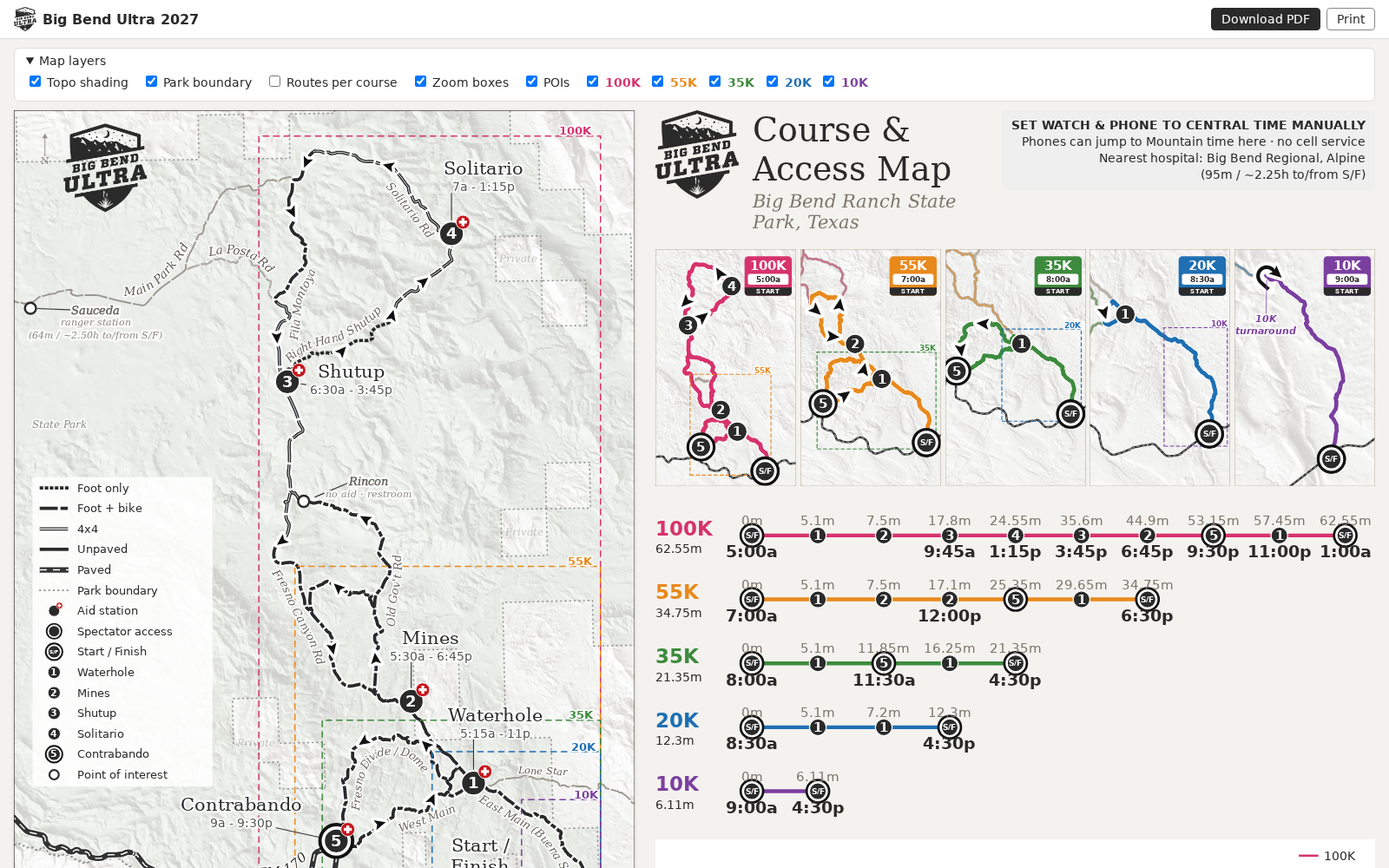
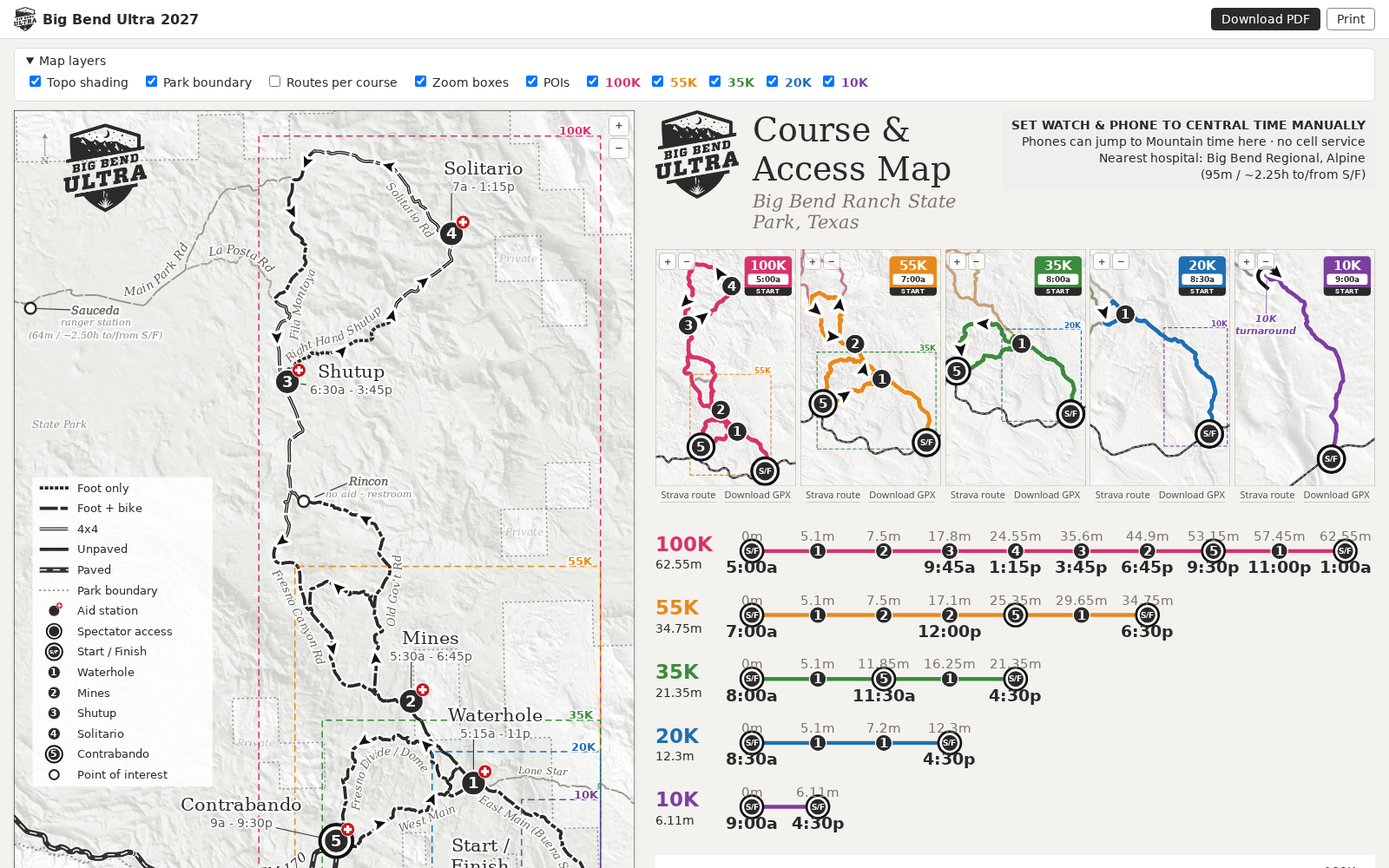
Readout gain + minor ticks; bib band bottom; print: section pages, equal 0.4in margins; web zoom/pan; Strava + GPX links

diff --git a/site/zoom.ts b/site/zoom.ts
@@ -1,0 +1,82 @@
+// Web-only zoom & pan for the main map and the mini maps.
+// The map content sits in <g class="zv">; legend, logo, bib and frame stay outside and never move.
+// Markers, arrows and labels are counter-scaled about their anchor so they keep a constant on-screen size.
+const MAX = 8, MIN = 1;
+type Z = { svg: SVGSVGElement; g: SVGGElement; W: number; H: number; k: number; tx: number; ty: number; items: { el: SVGGraphicsElement; base: string; cx: number; cy: number }[]; texts: { el: SVGTextElement; fs: number; sw: number }[] };
+const Zs = new Map<SVGSVGElement, Z>();
+/** current zoom factor of an svg (1 when not zoomable) */
+export const zoomOf = (svg: Element | null) => (svg && Zs.get(svg as SVGSVGElement)?.k) || 1;
+
+const COUNTER = 'g.marker, use.marker, path.arrow, g.stlabel, g.poilabel, g.turn, g.zoombox text, text';
+function collect(z: Z) {
+  const seen = new Set<Element>();
+  z.g.querySelectorAll<SVGGraphicsElement>(COUNTER).forEach((el) => {
+    // skip anything already inside a counter-scaled group
+    for (let p: Element | null = el.parentElement; p && p !== z.g; p = p.parentElement) if (seen.has(p)) return;
+    if (el.closest('g.layer[data-layer="topo"]')) return;
+    seen.add(el);
+    if (el.tagName === 'text' && el.querySelector('textPath')) { const t = el as SVGTextElement; z.texts.push({ el: t, fs: parseFloat(t.getAttribute('font-size') || '16'), sw: parseFloat(t.getAttribute('stroke-width') || '0') }); return; }
+    let cx: number, cy: number;
+    if (el.dataset.ax) { cx = +el.dataset.ax; cy = +(el.dataset.ay || 0); }
+    else if (el.tagName === 'text' && el.hasAttribute('x')) { cx = parseFloat(el.getAttribute('x')!); cy = parseFloat(el.getAttribute('y')!); }
+    else { try { const b = el.getBBox(); cx = b.x + b.width / 2; cy = b.y + b.height / 2; } catch { return; } }
+    z.items.push({ el, base: el.getAttribute('transform') || '', cx, cy });
+  });
+}
+function apply(z: Z) {
+  const { k } = z;
+  z.tx = Math.min(0, Math.max(z.W - k * z.W, z.tx)); z.ty = Math.min(0, Math.max(z.H - k * z.H, z.ty));
+  if (k === 1) z.g.removeAttribute('transform'); else z.g.setAttribute('transform', `translate(${z.tx} ${z.ty}) scale(${k})`);
+  for (const it of z.items) {
+    if (k === 1) { if (it.base) it.el.setAttribute('transform', it.base); else it.el.removeAttribute('transform'); continue; }
+    it.el.setAttribute('transform', `${it.base} translate(${it.cx} ${it.cy}) scale(${1 / k}) translate(${-it.cx} ${-it.cy})`);
+  }
+  for (const t of z.texts) { t.el.setAttribute('font-size', String(t.fs / k)); if (t.sw) t.el.setAttribute('stroke-width', String(t.sw / k)); }
+  z.svg.dispatchEvent(new CustomEvent('zoomchange'));
+  const ctl = z.svg.parentElement?.querySelector('.zctl'); ctl?.classList.toggle('zoomed', k > 1);
+}
+function toSvg(z: Z, cx: number, cy: number) { const m = z.svg.getScreenCTM()!; const p = new DOMPoint(cx, cy).matrixTransform(m.inverse()); return [p.x, p.y]; }
+function zoomAt(z: Z, f: number, px: number, py: number) {
+  const k = Math.min(MAX, Math.max(MIN, z.k * f)), r = k / z.k;
+  z.tx = px - (px - z.tx) * r; z.ty = py - (py - z.ty) * r; z.k = k; apply(z);
+}
+const reset = (z: Z) => { z.k = 1; z.tx = 0; z.ty = 0; apply(z); };
+export const resetAllZoom = () => Zs.forEach(reset);
+
+function setup(svg: SVGSVGElement) {
+  const g = svg.querySelector<SVGGElement>('g.zv'); if (!g) return;
+  const vb = svg.viewBox.baseVal, z: Z = { svg, g, W: vb.width, H: vb.height, k: 1, tx: 0, ty: 0, items: [], texts: [] };
+  collect(z); Zs.set(svg, z);
+  const host = svg.parentElement!; host.classList.add('zhost');
+  const ctl = document.createElement('div'); ctl.className = 'zctl ui';
+  ctl.innerHTML = '<button type="button" data-z="in" aria-label="Zoom in">+</button><button type="button" data-z="out" aria-label="Zoom out">−</button><button type="button" data-z="reset" aria-label="Reset zoom">⟲</button>';
+  host.appendChild(ctl);
+  ctl.addEventListener('click', (e) => { const b = (e.target as HTMLElement).closest('button'); if (!b) return; const c = [z.W / 2, z.H / 2]; if (b.dataset.z === 'in') zoomAt(z, 1.6, c[0], c[1]); else if (b.dataset.z === 'out') zoomAt(z, 1 / 1.6, c[0], c[1]); else reset(z); });
+  svg.addEventListener('wheel', (e) => { e.preventDefault(); const [x, y] = toSvg(z, e.clientX, e.clientY); zoomAt(z, Math.exp(-e.deltaY * (e.ctrlKey ? 0.01 : 0.0015)), x, y); }, { passive: false });
+  svg.addEventListener('dblclick', (e) => { e.preventDefault(); const [x, y] = toSvg(z, e.clientX, e.clientY); zoomAt(z, e.shiftKey ? 1 / 2 : 2, x, y); });
+  // mouse / pen drag to pan (touch is handled below so one finger still scrolls the page)
+  let drag: { x: number; y: number; tx: number; ty: number } | null = null;
+  svg.addEventListener('pointerdown', (e) => { if (e.pointerType === 'touch' || e.button !== 0 || z.k === 1) return; const [x, y] = toSvg(z, e.clientX, e.clientY); drag = { x, y, tx: z.tx, ty: z.ty }; svg.setPointerCapture(e.pointerId); svg.classList.add('panning'); });
+  svg.addEventListener('pointermove', (e) => { if (!drag) return; const [x, y] = toSvg(z, e.clientX, e.clientY); z.tx = drag.tx + x - drag.x; z.ty = drag.ty + y - drag.y; apply(z); });
+  const end = () => { drag = null; svg.classList.remove('panning'); };
+  svg.addEventListener('pointerup', end); svg.addEventListener('pointercancel', end);
+  // touch: two fingers pinch-zoom and pan; one finger is left to the page
+  let pin: { d: number; mx: number; my: number; k: number; tx: number; ty: number } | null = null;
+  const two = (t: TouchList) => { const a = toSvg(z, t[0].clientX, t[0].clientY), b = toSvg(z, t[1].clientX, t[1].clientY); return { d: Math.hypot(a[0] - b[0], a[1] - b[1]), mx: (a[0] + b[0]) / 2, my: (a[1] + b[1]) / 2 }; };
+  svg.addEventListener('touchstart', (e) => { if (e.touches.length === 2) { e.preventDefault(); const q = two(e.touches); pin = { ...q, k: z.k, tx: z.tx, ty: z.ty }; } }, { passive: false });
+  svg.addEventListener('touchmove', (e) => {
+    if (!pin || e.touches.length !== 2) return; e.preventDefault();
+    const q = two(e.touches);
+    // work in the pinch-start frame: point under the fingers' midpoint stays under it
+    const k = Math.min(MAX, Math.max(MIN, pin.k * (q.d / (pin.d || 1)))), r = k / pin.k;
+    const cx = (pin.mx - pin.tx) / pin.k, cy = (pin.my - pin.ty) / pin.k; // content point at pinch start
+    // q.mx is measured in the current (already transformed) svg viewport coords
+    z.k = k; z.tx = q.mx - cx * k; z.ty = q.my - cy * k; apply(z); void r;
+  }, { passive: false });
+  svg.addEventListener('touchend', (e) => { if (e.touches.length < 2) pin = null; });
+}
+export function initZoom() {
+  if (matchMedia('print').matches) return;
+  document.querySelectorAll<SVGSVGElement>('svg.mainmap, svg.mini').forEach(setup);
+  addEventListener('beforeprint', resetAllZoom);
+}

diff --git a/site/sections/10-map.ts b/site/sections/10-map.ts
@@ -6,27 +6,33 @@ import type { Ctx } from '../lib/types';
 import { hoverData } from '../lib/hover';
 // Print = US Letter portrait, 2 pages: p1 the main map, p2 the side panel (header, mini maps, timelines, profile).
 // Panels keep their 36x24 in design-sheet geometry (inches) and each page is uniformly zoomed to fit the printable area.
-export const LETTER = { w: 8.5, h: 11, margin: 0.25 };
-const PW = LETTER.w - 2 * LETTER.margin, PH = LETTER.h - 2 * LETTER.margin;
+export const LETTER = { w: 8.5, h: 11, margin: 0.4 };
 type Box = [number, number, number, number]; // sheet fractions [x0, y0 (from bottom), w, h]
 const inch = (b: Box) => ({ l: b[0] * 36, t: (1 - b[1] - b[3]) * 24, w: b[2] * 36, h: b[3] * 24 });
-const fit = (w: number, h: number) => Math.min(PW / w, PH / h);
+/** best letter orientation for a w x h in block: largest uniform zoom inside equal 0.4in margins, centred */
+function place(w: number, h: number) {
+  const opt = (pw: number, ph: number, orient: string) => { const W = pw - 2 * LETTER.margin, H = ph - 2 * LETTER.margin, z = Math.min(W / w, H / h); return { z, orient, mx: (W - w * z) / 2, my: (H - h * z) / 2 }; };
+  const a = opt(LETTER.w, LETTER.h, 'portrait'), b = opt(LETTER.h, LETTER.w, 'landscape');
+  return a.z >= b.z ? a : b;
+}
 export function render(c: Ctx) {
   const L = c.layout, hdr = L.header, st = L.strips;
   const toggles = mainLayers.map(([k, lab, on]) => `<label><input type="checkbox" data-layer="${k}"${on ? ' checked' : ''}> ${lab}</label>`).join('')
     + `<span class="sub">${c.courses.order.map(k => `<label class="ck" style="--c:${c.courses.colors[k]}"><input type="checkbox" data-course="${k}" checked> ${k}</label>`).join('')}</span>`;
-  const minis = c.courses.order.map(k => `<figure class="minibox" id="pb-m${k}">${renderMini(c, k)}</figure>`).join('');
+  const minis = c.courses.order.map(k => `<figure class="minibox" id="pb-m${k}">${renderMini(c, k)}<figcaption class="ui minilinks">${c.courses.courses[k].stravaUrl ? `<a href="${esc(c.courses.courses[k].stravaUrl)}" target="_blank" rel="noopener">Strava route</a>` : ''}<a href="${esc(c.courses.courses[k].gpx)}" download>Download GPX</a></figcaption></figure>`).join('');
   const stripBox = [st.rx, st.top - 5 * st.rh, st.w, 5 * st.rh];
   const evb = L.elev, evBox = [evb[0], evb[1] - 40 / SHEET.h, evb[2], evb[3] + 40 / SHEET.h];
   const notice = hdr[2].text.split('\n');
-  const mainIn = inch(L.views.main.fig), z0 = fit(mainIn.w, mainIn.h);
+  const mainIn = inch(L.views.main.fig);
   const side: [string, Box][] = [['pb-hdr', [L.logo[0], L.logo[1], 0.51, L.logo[3]]], ...c.courses.order.map((k) => [`pb-m${k}`, L.views[k].fig] as [string, Box]), ['pb-strips', stripBox as Box], ['pb-prof', evBox as Box]];
   const si = side.map(([id, b]) => [id, inch(b)] as const), ox = Math.min(...si.map(([, b]) => b.l)), oy = Math.min(...si.map(([, b]) => b.t));
   const sw = Math.max(...si.map(([, b]) => b.l + b.w)) - ox, sh = Math.max(...si.map(([, b]) => b.t + b.h)) - oy + 0.5;
-  const z1 = Math.min(z0, fit(sw, sh)), z2 = z1; // same zoom on both pages => map logo prints the same size as the header logo
+  const P1 = place(mainIn.w, mainIn.h), P2 = place(sw, sh); // each page fitted on its own
   const px = (b: { l: number; t: number; w: number; h: number }) => `{left:${(b.l - ox).toFixed(3)}in;top:${(b.t - oy).toFixed(3)}in;width:${b.w.toFixed(3)}in;height:${b.h.toFixed(3)}in}`;
-  const css = `@media print{#pb-main{width:${mainIn.w.toFixed(3)}in;height:${mainIn.h.toFixed(3)}in;zoom:${z1.toFixed(4)}}`
-    + `.side{width:${sw.toFixed(3)}in;height:${sh.toFixed(3)}in;zoom:${z2.toFixed(4)}}${si.map(([id, b]) => `#${id}${px(b)}`).join('')}}`;
+  // margins inside a zoomed box are zoomed too, so divide the centring offsets by z
+  const pg = (sel: string, name: string, w: number, h: number, P: ReturnType<typeof place>) => `@page ${name}{size:letter ${P.orient};margin:${LETTER.margin}in}`
+    + `@media print{${sel}{page:${name};width:${w.toFixed(3)}in;height:${h.toFixed(3)}in;zoom:${P.z.toFixed(4)};margin:${(P.my / P.z).toFixed(4)}in ${(P.mx / P.z).toFixed(4)}in!important}}`;
+  const css = pg('#pb-main', 'pmain', mainIn.w, mainIn.h, P1) + pg('.side', 'pside', sw, sh, P2) + `@media print{${si.map(([id, b]) => `#${id}${px(b)}`).join('')}}`;
   return `<style>${css}</style>
 <details class="ui layers" open><summary>Map layers</summary><div class="toggles">${toggles}</div></details>
 <div class="sheet">

diff --git a/site/app.ts b/site/app.ts
@@ -1,3 +1,4 @@
+import { initZoom, zoomOf } from './zoom';
 // Layer toggles + print button. No framework; the map is static inline SVG.
 const show = (sel: string, on: boolean) => document.querySelectorAll<SVGGElement>(sel).forEach((g) => (g.style.display = on ? '' : 'none'));
 document.querySelectorAll<HTMLInputElement>('input[data-layer]').forEach((cb) => cb.addEventListener('change', () => { show(`.mainmap g.layer[data-layer="${cb.dataset.layer}"]`, cb.checked); if (cb.dataset.layer === 'zoom') show('svg.mini g.zoombox', cb.checked); if (cb.dataset.layer === 'topo') show('svg.mini g.topo', cb.checked); }));
@@ -12,7 +13,7 @@ if (hdEl && prof) {
   const HD: HD = JSON.parse(hdEl.textContent || '{}'), NS = 'http://www.w3.org/2000/svg';
   const el = (tag: string, attrs: Record<string, string | number>, parent: Element) => { const e = document.createElementNS(NS, tag); for (const k in attrs) e.setAttribute(k, String(attrs[k])); parent.appendChild(e); return e; };
   const main = document.querySelector<SVGSVGElement>('svg.mainmap')!;
-  const mk = (svg: SVGSVGElement, r: number, sw: number) => { const g = el('g', { class: 'hov', style: 'display:none;pointer-events:none' }, svg); el('circle', { r: r + sw, fill: '#fff' }, g); const c = el('circle', { r, fill: 'none', 'stroke-width': sw }, g); el('circle', { r: sw * 0.9, fill: '#111' }, g); return { g, c }; };
+  const mk = (svg: SVGSVGElement, r: number, sw: number) => { const g = el('g', { class: 'hov', style: 'display:none;pointer-events:none' }, svg.querySelector('g.zv') ?? svg); el('circle', { r: r + sw, fill: '#fff' }, g); const c = el('circle', { r, fill: 'none', 'stroke-width': sw }, g); el('circle', { r: sw * 0.9, fill: '#111' }, g); return { g, c }; };
   // one marker per course on the main map, one on each course's own mini map
   const mains: Record<string, ReturnType<typeof mk>> = {}, minis: Record<string, ReturnType<typeof mk>> = {};
   for (const [k, c] of Object.entries(HD.courses)) { mains[k] = mk(main, 13, 5); mains[k].c.setAttribute('stroke', c.color); }
@@ -41,8 +42,8 @@ if (hdEl && prof) {
     for (const { k, v } of hits) {
       const [, ft, ax, ay, bx, by] = v, d = dots[k] as SVGElement;
       d.style.display = ''; d.setAttribute('cx', String(X(v[0]))); d.setAttribute('cy', String(Y(ft)));
-      mains[k].g.style.display = ''; mains[k].g.setAttribute('transform', `translate(${ax} ${ay})`);
-      if (minis[k]) { minis[k].g.style.display = ''; minis[k].g.setAttribute('transform', `translate(${bx} ${by})`); }
+      mains[k].g.style.display = ''; mains[k].g.setAttribute('transform', `translate(${ax} ${ay}) scale(${1 / zoomOf(main)})`);
+      if (minis[k]) { minis[k].g.style.display = ''; minis[k].g.setAttribute('transform', `translate(${bx} ${by}) scale(${1 / zoomOf(minis[k].g.ownerSVGElement)})`); }
     }
     // readout: one line per course, longest first: course · mile · cumulative gain from the start
     lab.textContent = '';
@@ -69,3 +70,5 @@ const syncLogo = () => {
 addEventListener('resize', syncLogo); hdrLogo?.addEventListener('load', syncLogo); syncLogo();
 addEventListener('beforeprint', () => { if (mapLogo) { mapLogo.setAttribute('width', String(1.45 * 72)); mapLogo.setAttribute('height', String(1.45 * 72 * 776 / 730)); } });
 addEventListener('afterprint', syncLogo);
+
+initZoom();

diff --git a/site/public/styles.css b/site/public/styles.css
@@ -38,11 +38,16 @@ svg .stnum{fill:#fff;font-weight:700}
 }
 @media (max-width:560px){.minis{grid-template-columns:repeat(2,minmax(0,1fr))}.printctl{display:none}}
 /* ---------- print: US Letter portrait, 2 pages (map | side panel); sizes/zoom injected by sections/10-map.ts ---------- */
-@page{size:8.5in 11in;margin:.25in}
+@page{size:8.5in 11in;margin:.4in}
 .printfoot{display:none}
 @media print{
   .ui{display:none!important}
-  .sec:not(.sec-map){display:none}
+  /* map = first two letter pages; every other section follows on its own pages unless meta.print === false */
+  .sec.noprint{display:none}
+  .sec:not(.sec-map){break-before:page}
+  .sec:not(.sec-map) .doc{max-width:none;margin:0;padding:0;font-size:10.5pt;box-shadow:none}
+  .doc h2,.doc h3,.doc h4{break-after:avoid}.doc .keep{break-inside:avoid}
+  .doc table{break-inside:avoid}.doc thead{display:table-header-group}.doc tr{break-inside:avoid}
   html,body{background:#fff;margin:0}
   main{margin:0}
   .sheet{display:block;padding:0;margin:0;max-width:none;gap:0;background:#fff}
@@ -60,3 +65,13 @@ svg .stnum{fill:#fff;font-weight:700}
   .printfoot{display:block;position:absolute;right:.2in;bottom:0;font-size:17pt;color:var(--ink)}
 }
 .footlink{grid-column:1/-1;justify-self:end;color:var(--ink);font-size:.95rem}
+/* ---------- web zoom & pan (site/zoom.ts) ---------- */
+.zhost{position:relative}
+.zctl{position:absolute;right:6px;top:6px;display:flex;flex-direction:column;gap:2px;z-index:2;opacity:.85}
+.zctl button{width:24px;height:24px;padding:0;border:1px solid #bbb;border-radius:4px;background:#fffffff0;color:#333;font:600 15px/1 system-ui,sans-serif;cursor:pointer}
+.zctl button:hover{background:#f2f0ec}.zctl button[data-z=reset]{font-size:13px;visibility:hidden}.zctl.zoomed button[data-z=reset]{visibility:visible}
+.minibox .zctl{top:4px;left:4px;right:auto;flex-direction:row}.minibox .zctl button{width:20px;height:20px;font-size:13px}
+svg.mainmap,svg.mini{touch-action:pan-x pan-y}svg.panning{cursor:grabbing}
+@media print{.zctl{display:none!important}g.zv{transform:none!important}}
+.minilinks{display:flex;justify-content:center;flex-wrap:wrap;gap:2px 10px;margin-top:3px;font:11px/1.3 system-ui,sans-serif;white-space:nowrap}
+.minilinks a{color:#555;text-decoration:none;border-bottom:1px solid #ccc}.minilinks a:hover{color:#111;border-color:#111}

diff --git a/site/build.ts b/site/build.ts
@@ -20,7 +20,7 @@ fs.rmSync(D, { recursive: true, force: true }); fs.mkdirSync(D, { recursive: tru
 const sections: Section[] = [];
 for (const f of fs.readdirSync(path.join(here, 'sections')).filter((f) => f.endsWith('.ts')).sort()) sections.push(await import(path.join(here, 'sections', f)));
 const tpl = fs.readFileSync(path.join(here, 'template.html'), 'utf8');
-const body = sections.map((s) => `<section class="sec sec-${s.meta.id}" id="${s.meta.id}" aria-label="${s.meta.title}">${s.render(ctx)}</section>`).join('\n');
+const body = sections.map((s) => `<section class="sec sec-${s.meta.id}${s.meta.print === false ? ' noprint' : ''}" id="${s.meta.id}" aria-label="${s.meta.title}">${s.render(ctx)}</section>`).join('\n');
 const html = tpl.replace('{{base}}', './').replace(/{{title}}/g, sections[0].meta.title).replace('{{defs}}', markerDefs(ctx.colors)).replace('{{body}}', body).replace(/{{year}}/g, '2027');
 fs.writeFileSync(path.join(D, 'index.html'), html);
 console.log('index.html', (html.length / 1024).toFixed(0) + ' KB,', sections.length, 'sections:', sections.map((s) => s.meta.id).join(', '));
@@ -28,4 +28,7 @@ fs.cpSync(path.join(here, 'public'), D, { recursive: true });
 const app = await Bun.build({ entrypoints: [path.join(here, 'app.ts')], outdir: D, minify: true, target: 'browser' });
 if (!app.success) throw new AggregateError(app.logs, 'app.ts bundle failed');
 fs.cpSync(path.join(C, 'hillshade'), path.join(D, 'hillshade'), { recursive: true });
+// course GPX downloads, straight from /sources
+fs.mkdirSync(path.join(D, 'gpx'), { recursive: true });
+for (const k of ctx.courses.order) fs.copyFileSync(path.join(here, '..', 'sources', 'gpx', `${k}.gpx`), path.join(D, ctx.courses.courses[k].gpx));
 for (const f of ['logo_ink_crop.png', 'logo_white_crop.png']) fs.copyFileSync(path.join(C, f), path.join(D, f));

diff --git a/site/lib/labels.ts b/site/lib/labels.ts
@@ -48,7 +48,7 @@ export function stationLabel(c: Ctx, f: Feature, p: (ll: [number, number]) => [n
   const leads = lines.map((l, i) => (i === 0 ? 0 : i < nameLines.length ? T.name.size * T.nameLead : i === nameLines.length ? T.name.size / 2 + T.gap + T.info.size / 2 : T.info.size * T.infoLead));
   const { svg, boxes } = block(x, y, (q.align ?? 'center') as Align, lines, leads);
   const [sx, sy] = p(s.lonlat);
-  return `<g class="stlabel" data-station="${esc(q.station)}">${leader(boxes, sx, sy, radius(q.station))}${svg}</g>`;
+  return `<g class="stlabel" data-station="${esc(q.station)}" data-ax="${f1(sx)}" data-ay="${f1(sy)}">${leader(boxes, sx, sy, radius(q.station))}${svg}</g>`;
 }
 
 export function poiLabel(f: Feature, p: (ll: [number, number]) => [number, number], targetR = 6) {
@@ -62,5 +62,6 @@ export function poiLabel(f: Feature, p: (ll: [number, number]) => [number, numbe
   const { svg, boxes } = block(x, y, (q.align ?? 'center') as Align, lines, leads);
   // POI leaders always run from the title to the POI dot
   const lead = q.target ? (() => { const [tx, ty] = p(q.target); const b = boxes[0], my = (b.y0 + b.y1) / 2; const sx = tx < b.x0 ? b.x0 : tx > b.x1 ? b.x1 : Math.max(b.x0, Math.min(tx, b.x1)); const sy = tx < b.x0 || tx > b.x1 ? my : ty < b.y0 ? b.y0 : b.y1; return leaderLine(sx, sy, tx, ty, 0, targetR); })() : '';
-  return `<g class="poilabel" data-poi="${esc(q.poi)}">${lead}${svg}</g>`;
+  const [ax, ay] = q.target ? p(q.target) : [x, y];
+  return `<g class="poilabel" data-poi="${esc(q.poi)}" data-ax="${f1(ax)}" data-ay="${f1(ay)}">${lead}${svg}</g>`;
 }

diff --git a/scripts/content.ts b/scripts/content.ts
@@ -144,7 +144,9 @@ HRS['S/F'] = SF_HOURS;
 
 w('stations.json', { order: ['S/F', '1', '2', '3', '4', '5'], stations: Object.fromEntries(['S/F', '1', '2', '3', '4', '5'].map((k) => [k, { name: NAME[k], kml: KN[k], lonlat: ll([merc(SLL[k])])[0], hours: HRS[k] ?? null, spectator: SPEC.has(k), elevation_ft: Math.round(STEL[k] ?? 0) }])) });
 w('cutoffs.json', Object.fromEntries(ORDER.map((k) => [k, S[k].map(([station, mile, cutoff]) => ({ station, mile, cutoff }))])));
-w('courses.json', { order: ORDER, colors: C, courses: Object.fromEntries(ORDER.map((k) => [k, { distance_mi: S[k][S[k].length - 1][1], start: S[k][0][2], color: C[k] }])) });
+// Strava route URL: only taken from the source GPX metadata (<link href="https://www.strava.com/routes/...">); never invented
+const strava = (k: Course) => { const m = fs.readFileSync(path.join(SRC, 'gpx', `${k}.gpx`), 'utf8').match(/https?:\/\/(?:www\.)?strava\.com\/routes\/\d+/); return m ? m[0].replace(/^http:/, 'https:') : null; };
+w('courses.json', { order: ORDER, colors: C, courses: Object.fromEntries(ORDER.map((k) => [k, { distance_mi: S[k][S[k].length - 1][1], start: S[k][0][2], color: C[k], stravaUrl: strava(k), gpx: `gpx/big-bend-ultra-${k.toLowerCase()}.gpx` }])) });
 w('colors.json', { cream: '#ffffff', ink: '#2a2a2a', mute: '#7d766b', ring: '#111111', road: '#5d5850', aid_red: '#c4161c', park: '#5f8a5a', offcourse: '#9b968e', offcourse_4x4: '#8f8a82', minis_network: '#b9b3aa', minis_next: '#a9a299', boundary: '#8e8e8e', bar: '#9c2f1e' });
 
 // elevation profiles: GPX distance remapped so station passes land on sheet mileage

diff --git a/site/lib/mainmap.ts b/site/lib/mainmap.ts
@@ -81,7 +81,7 @@ export function renderMain(c) {
   const order = ['topo', 'park', 'roads', 'access', 'courses', 'zoom', 'arrows', 'stations', 'pois', 'stationLabels', 'labels'];
   const vis = Object.fromEntries(LAYERS.map(l => [l[0], l[2]]));
   const grp = order.map(k => `<g class="layer" data-layer="${k}"${(vis[k] === false) ? ' style="display:none"' : ''}>${g[k] || ''}</g>`).join('\n');
-  return `<svg class="mainmap" viewBox="0 0 ${f1(W)} ${f1(H)}" xmlns="http://www.w3.org/2000/svg" role="img" aria-label="Big Bend Ultra main course map"><defs><clipPath id="mclip"><rect width="${f1(W)}" height="${f1(H)}"/></clipPath></defs><rect width="${f1(W)}" height="${f1(H)}" fill="#fff"/><g clip-path="url(#mclip)">${grp}</g>${fur}<rect width="${f1(W)}" height="${f1(H)}" fill="none" stroke="#000" stroke-width="1.6"/></svg>`;
+  return `<svg class="mainmap" viewBox="0 0 ${f1(W)} ${f1(H)}" xmlns="http://www.w3.org/2000/svg" role="img" aria-label="Big Bend Ultra main course map"><defs><clipPath id="mclip"><rect width="${f1(W)}" height="${f1(H)}"/></clipPath></defs><rect width="${f1(W)}" height="${f1(H)}" fill="#fff"/><g clip-path="url(#mclip)"><g class="zv">${grp}</g></g>${fur}<rect width="${f1(W)}" height="${f1(H)}" fill="none" stroke="#000" stroke-width="1.6"/></svg>`;
 }
 /** notched arrowhead (dart), centred on the route point and pointing along the route.
  *  Normalised shape pointing +x: tip (0.6,0), top-back (-0.5,-0.5), notch (-0.28,0), bottom-back (-0.5,0.5) — length:height 1.1:1. */

diff --git a/site/sections/20-stations.ts b/site/sections/20-stations.ts
@@ -2,6 +2,6 @@ import { esc } from '../lib/util';
 export const meta = { id: 'stations', title: 'Aid stations & cutoffs' };
 export function render(c) {
   const rows = c.stations.order.map(k => { const s = c.stations.stations[k]; return `<tr><td>${esc(k)}</td><td>${esc(s.name)}</td><td>${esc(s.hours || '')}</td><td>${s.spectator ? 'yes' : ''}</td><td>${s.elevation_ft || ''}</td></tr>`; }).join('');
-  const cuts = c.courses.order.map(k => `<h4 style="color:${c.courses.colors[k]}">${k} · start ${esc(c.courses.courses[k].start)}</h4><table><tr><th>Station</th><th>Mile</th><th>Cutoff</th></tr>${c.cutoffs[k].map(q => `<tr><td>${esc(c.stations.stations[q.station].name)}</td><td>${q.mile}</td><td>${esc(q.cutoff)}</td></tr>`).join('')}</table>`).join('');
+  const cuts = c.courses.order.map(k => `<div class="keep"><h4 style="color:${c.courses.colors[k]}">${k} · start ${esc(c.courses.courses[k].start)}</h4><table><tr><th>Station</th><th>Mile</th><th>Cutoff</th></tr>${c.cutoffs[k].map(q => `<tr><td>${esc(c.stations.stations[q.station].name)}</td><td>${q.mile}</td><td>${esc(q.cutoff)}</td></tr>`).join('')}</table></div>`).join('');
   return `<article class="doc"><h2>Aid stations</h2><table><tr><th>#</th><th>Name</th><th>Hours</th><th>Spectators</th><th>Elev (ft)</th></tr>${rows}</table><h3>Cutoffs by course</h3>${cuts}</article>`;
 }

diff --git a/site/lib/panels.ts b/site/lib/panels.ts
@@ -64,6 +64,7 @@ export function renderMini(c, k) {
   for (const f of c.arrows.features.filter(f => f.properties.map === k)) s += chevron(f, V, col);
   if (k === '10K') s += turnaround(c, V);
   for (const st of c.cutoffs[k]) { const [x, y] = V.p(c.stations.stations[st.station].lonlat); s += station(x, y, st.station, c.stations.stations[st.station].spectator, { s: 1280, fs: 23, badge: false, colors: col }); }
+  s = `<g class="zv">${s}</g>`; // zoom/pan content (bib stays fixed)
   s += bib(k, c.courses.courses[k].start, c.courses.colors[k], W, H, col);
   return `<svg class="mini" data-mini="${k}" viewBox="0 0 ${f1(W)} ${f1(H)}" xmlns="http://www.w3.org/2000/svg" role="img" aria-label="${k} course map"><defs><clipPath id="mc${k}"><rect width="${f1(W)}" height="${f1(H)}"/></clipPath></defs><rect width="${f1(W)}" height="${f1(H)}" fill="#fff"/><g clip-path="url(#mc${k})">${s}</g><rect width="${f1(W)}" height="${f1(H)}" fill="none" stroke="#b8ae9c" stroke-width="1.6"/></svg>`;
 }

diff --git a/tools/margins.ts b/tools/margins.ts
@@ -1,0 +1,9 @@
+// Measure printed margins (inches) per page of the letter PDF renders: bbox of non-white pixels.
+import { PNG } from 'pngjs'; import fs from 'node:fs';
+const dpi = Number(process.argv[2] || 100);
+for (const f of fs.readdirSync('previews').filter((f) => /^print-letter-\d+\.png$/.test(f)).sort()) {
+  const p = PNG.sync.read(fs.readFileSync(`previews/${f}`)); let x0 = p.width, y0 = p.height, x1 = -1, y1 = -1;
+  for (let y = 0; y < p.height; y++) for (let x = 0; x < p.width; x++) { const i = (y * p.width + x) * 4; if (p.data[i] < 245 || p.data[i + 1] < 245 || p.data[i + 2] < 245) { if (x < x0) x0 = x; if (x > x1) x1 = x; if (y < y0) y0 = y; if (y > y1) y1 = y; } }
+  const r = (v: number) => (v / dpi).toFixed(2);
+  console.log(f, `${(p.width / dpi).toFixed(1)}x${(p.height / dpi).toFixed(1)}in`, 'top', r(y0), 'bottom', r(p.height - 1 - y1), 'left', r(x0), 'right', r(p.width - 1 - x1));
+}

diff --git a/site/lib/types.ts b/site/lib/types.ts
@@ -8,4 +8,4 @@ export interface Ctx {
   courseGeo: Record<string, FC>; profiles: Record<string, any>;
 }
 /** one section of the single-page site; files in site/sections/ render in filename order */
-export interface Section { meta: { id: string; title: string }; render(c: Ctx): string }
+export interface Section { meta: { id: string; title: string; /** opt out of the print/PDF pages (default: printed) */ print?: boolean }; render(c: Ctx): string }
